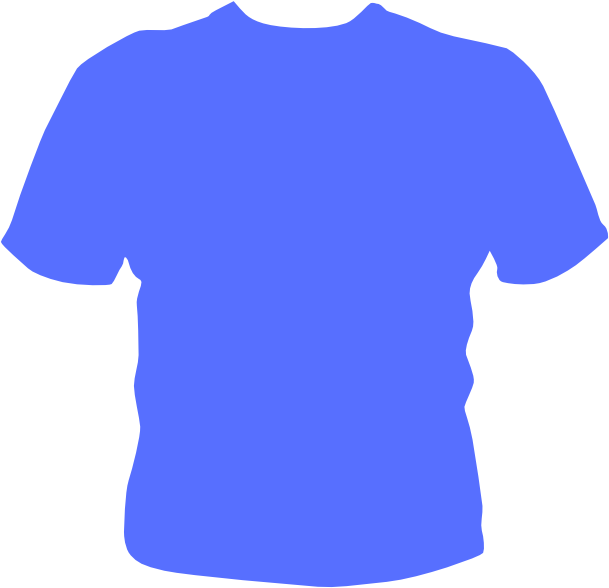
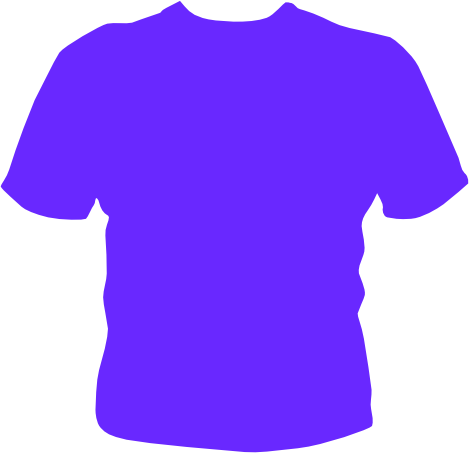
achico app.. pff

diff --git a/static/nodakar/js/nodakar.js b/static/nodakar/js/nodakar.js
@@ -1,8 +1,8 @@
 // area en el que se puede diseñar
-AREA_IZQUIERDA = 150;
-AREA_ARRIBA = 55;
-AREA_ANCHO = 310;
-AREA_ALTO = 400;
+AREA_IZQUIERDA = 116;
+AREA_ARRIBA = 42;
+AREA_ANCHO = 239;
+AREA_ALTO = 308;
 
 fabric.Object.prototype.borderColor = "rgb(0,255,0)";
 fabric.Object.prototype.borderOpacityWhenMoving = 1;

diff --git a/templates/index.html b/templates/index.html
@@ -69,9 +69,9 @@
 
         </div>
       </div>
-      <div class="col-md-6">
+      <div id="col-canvas" class="col-md-6">
 
-        <canvas id="nodakar" width="610", height="590"></canvas>
+        <canvas id="nodakar" width="470", height="454"></canvas>
 
       </div>
       <div class="col-md-3">

diff --git a/static/nodakar/css/nodakar.css b/static/nodakar/css/nodakar.css
@@ -43,6 +43,10 @@ body {
   font-size: small;
 }
 
+#col-canvas {
+  padding-right: 0;
+}
+
 #infobar {
   color: #eee;
 }
